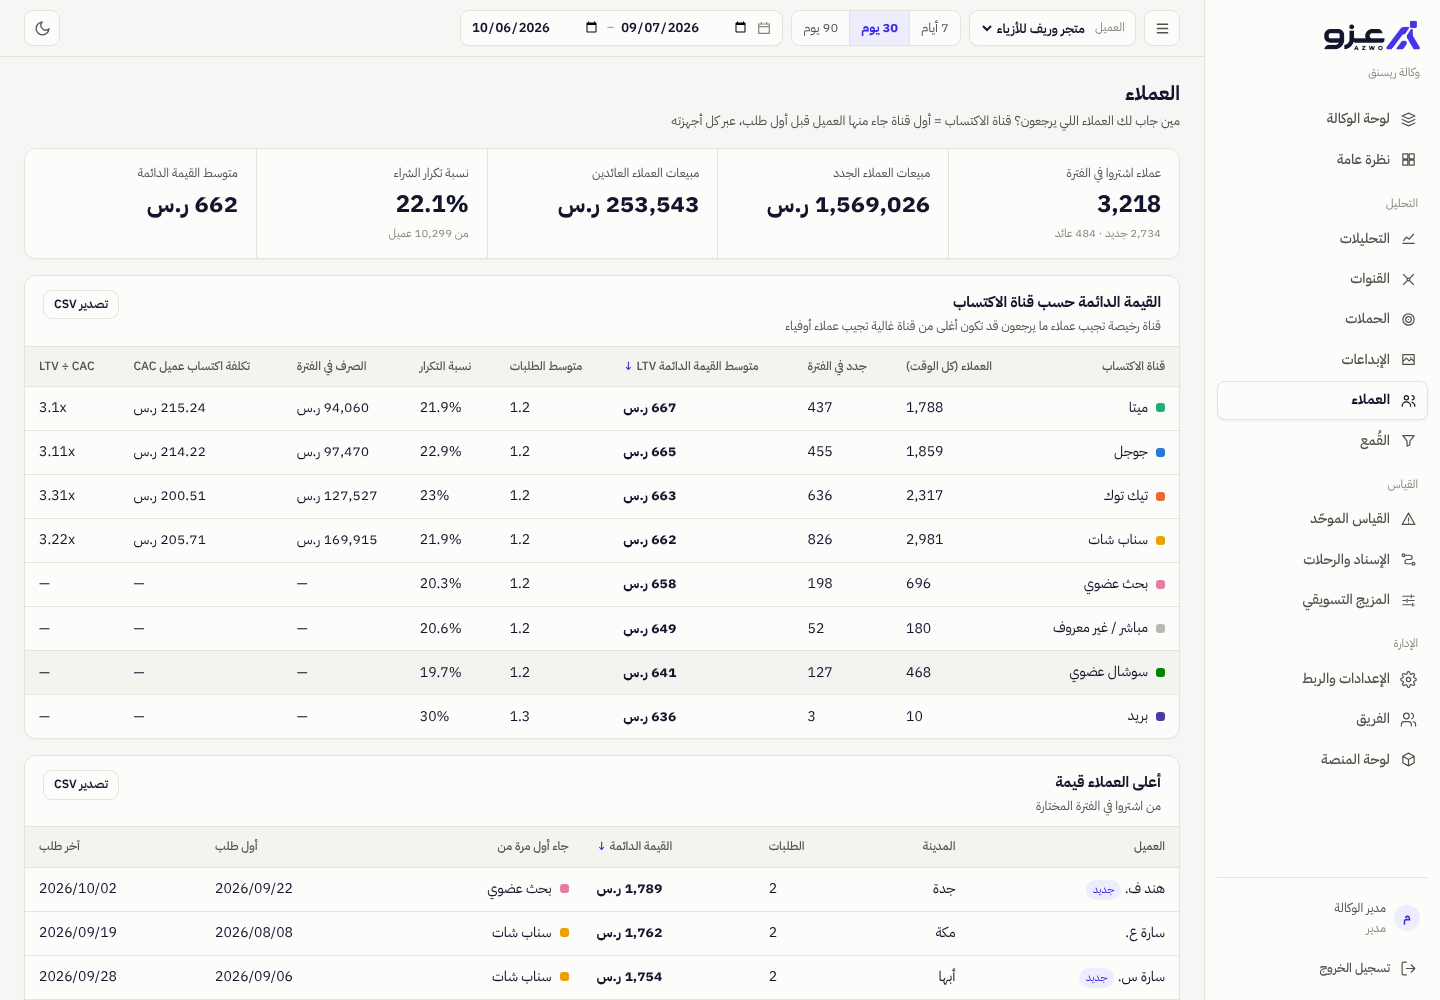
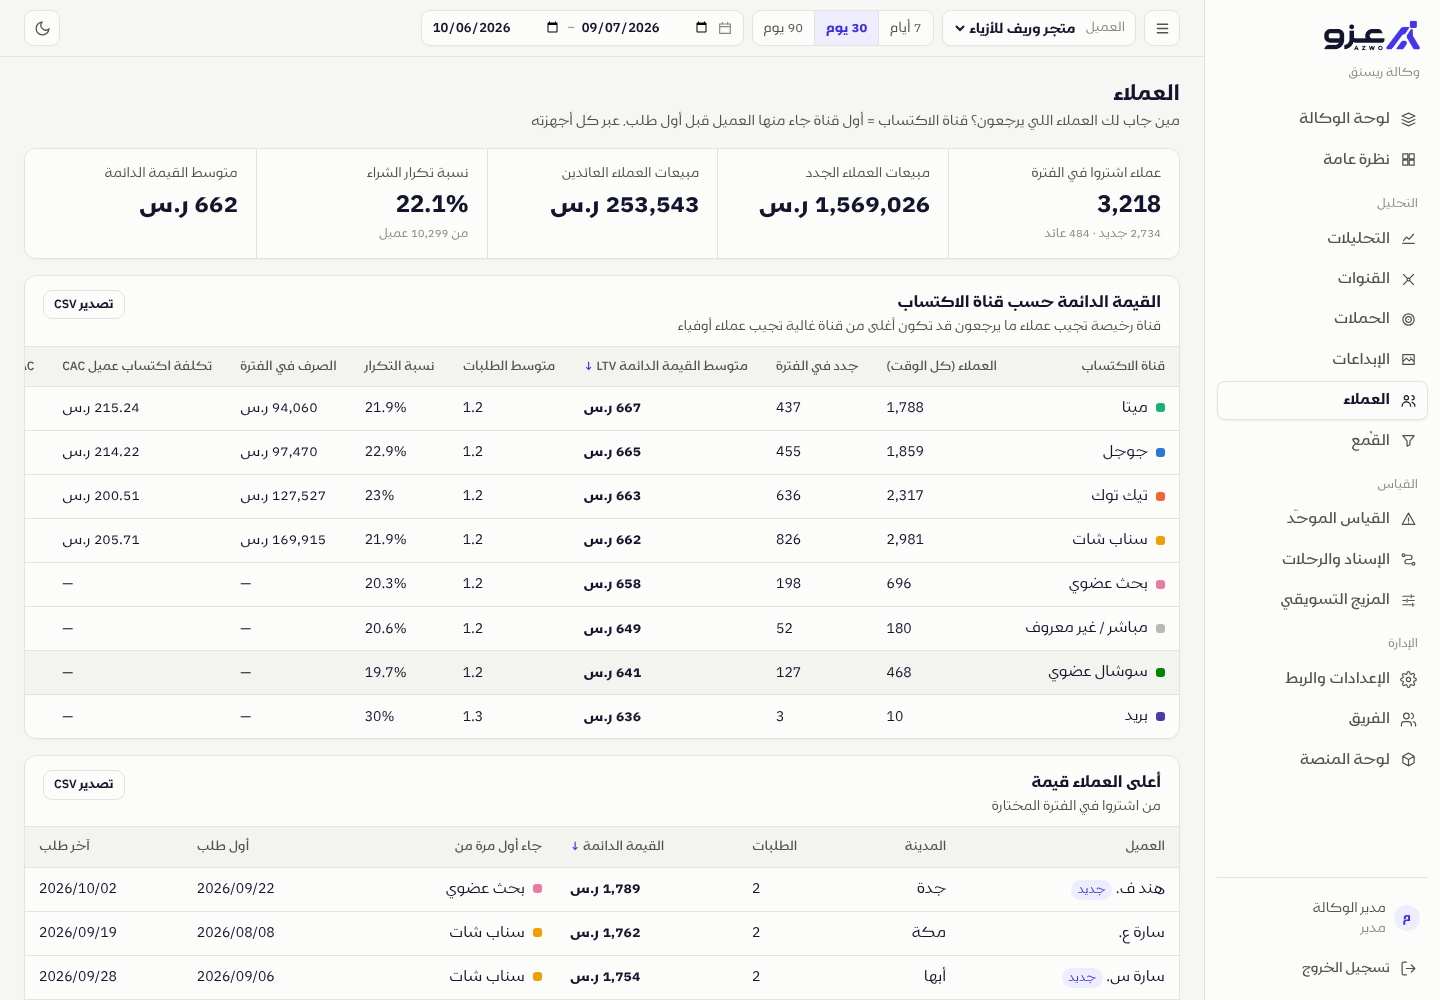
Use the Gamila Arabic brand font
Self-hosted WOFF2 (300/400/500/700) limited to the Arabic unicode range, so
Latin words and digits keep the fallback font and table numbers stay aligned.
CSP allows same-origin fonts; screenshots refreshed.

Claude-Session: https://claude.ai/code/session_01CRQ2PyNX2SDaLzzWgzttx9

diff --git a/public/css/landing.css b/public/css/landing.css
@@ -1,3 +1,39 @@
+@font-face {
+  font-family: "Gamila Arabic";
+  src: url("/fonts/gamila-300.woff2") format("woff2");
+  font-weight: 300;
+  font-style: normal;
+  font-display: swap;
+  /* Arabic letters only: Latin words and digits fall back to the next font, so numbers stay aligned. */
+  unicode-range: U+0600-06FF, U+0750-077F, U+08A0-08FF, U+FB50-FDFF, U+FE70-FEFF, U+200C-200F;
+}
+@font-face {
+  font-family: "Gamila Arabic";
+  src: url("/fonts/gamila-400.woff2") format("woff2");
+  font-weight: 400;
+  font-style: normal;
+  font-display: swap;
+  /* Arabic letters only: Latin words and digits fall back to the next font, so numbers stay aligned. */
+  unicode-range: U+0600-06FF, U+0750-077F, U+08A0-08FF, U+FB50-FDFF, U+FE70-FEFF, U+200C-200F;
+}
+@font-face {
+  font-family: "Gamila Arabic";
+  src: url("/fonts/gamila-500.woff2") format("woff2");
+  font-weight: 500;
+  font-style: normal;
+  font-display: swap;
+  /* Arabic letters only: Latin words and digits fall back to the next font, so numbers stay aligned. */
+  unicode-range: U+0600-06FF, U+0750-077F, U+08A0-08FF, U+FB50-FDFF, U+FE70-FEFF, U+200C-200F;
+}
+@font-face {
+  font-family: "Gamila Arabic";
+  src: url("/fonts/gamila-700.woff2") format("woff2");
+  font-weight: 700;
+  font-style: normal;
+  font-display: swap;
+  /* Arabic letters only: Latin words and digits fall back to the next font, so numbers stay aligned. */
+  unicode-range: U+0600-06FF, U+0750-077F, U+08A0-08FF, U+FB50-FDFF, U+FE70-FEFF, U+200C-200F;
+}
 :root {
   --bg: #fbfbfa; --surface: #ffffff; --alt: #f3f3f0; --border: #e4e3dd; --text: #12152b; --text-2: #52514e; --muted: #898781;
   --accent: #4335ec; --accent-ink: #3a2ce0; --accent-soft: #eeedfd; --claim: #eb6834;
@@ -7,7 +43,7 @@
 }
 * { box-sizing: border-box; }
 html { scroll-behavior: smooth; }
-body { margin: 0; background: var(--bg); color: var(--text); font: 16px/1.7 "IBM Plex Sans Arabic", system-ui, -apple-system, "Segoe UI", Tahoma, sans-serif; }
+body { margin: 0; background: var(--bg); color: var(--text); font: 16px/1.7 "Gamila Arabic", "IBM Plex Sans Arabic", system-ui, -apple-system, "Segoe UI", Tahoma, sans-serif; }
 a { color: inherit; text-decoration: none; }
 .wrap { max-width: 1120px; margin: 0 auto; padding: 0 20px; }
 .narrow { max-width: 760px; }

diff --git a/public/css/app.css b/public/css/app.css
@@ -1,3 +1,39 @@
+@font-face {
+  font-family: "Gamila Arabic";
+  src: url("/fonts/gamila-300.woff2") format("woff2");
+  font-weight: 300;
+  font-style: normal;
+  font-display: swap;
+  /* Arabic letters only: Latin words and digits fall back to the next font, so numbers stay aligned. */
+  unicode-range: U+0600-06FF, U+0750-077F, U+08A0-08FF, U+FB50-FDFF, U+FE70-FEFF, U+200C-200F;
+}
+@font-face {
+  font-family: "Gamila Arabic";
+  src: url("/fonts/gamila-400.woff2") format("woff2");
+  font-weight: 400;
+  font-style: normal;
+  font-display: swap;
+  /* Arabic letters only: Latin words and digits fall back to the next font, so numbers stay aligned. */
+  unicode-range: U+0600-06FF, U+0750-077F, U+08A0-08FF, U+FB50-FDFF, U+FE70-FEFF, U+200C-200F;
+}
+@font-face {
+  font-family: "Gamila Arabic";
+  src: url("/fonts/gamila-500.woff2") format("woff2");
+  font-weight: 500;
+  font-style: normal;
+  font-display: swap;
+  /* Arabic letters only: Latin words and digits fall back to the next font, so numbers stay aligned. */
+  unicode-range: U+0600-06FF, U+0750-077F, U+08A0-08FF, U+FB50-FDFF, U+FE70-FEFF, U+200C-200F;
+}
+@font-face {
+  font-family: "Gamila Arabic";
+  src: url("/fonts/gamila-700.woff2") format("woff2");
+  font-weight: 700;
+  font-style: normal;
+  font-display: swap;
+  /* Arabic letters only: Latin words and digits fall back to the next font, so numbers stay aligned. */
+  unicode-range: U+0600-06FF, U+0750-077F, U+08A0-08FF, U+FB50-FDFF, U+FE70-FEFF, U+200C-200F;
+}
 :root {
   color-scheme: light;
   --page: #f6f6f4;
@@ -52,7 +88,7 @@
 html, body { margin: 0; }
 body {
   background: var(--page); color: var(--text);
-  font: 14px/1.6 "IBM Plex Sans Arabic", system-ui, -apple-system, "Segoe UI", Tahoma, sans-serif;
+  font: 14px/1.6 "Gamila Arabic", "IBM Plex Sans Arabic", system-ui, -apple-system, "Segoe UI", Tahoma, sans-serif;
 }
 button, input, select, textarea { font: inherit; color: inherit; }
 a { color: var(--accent-ink); }

diff --git a/src/server.js b/src/server.js
@@ -34,12 +34,12 @@ import { TRACKER_SOURCE } from './tracker.js';
 const PUBLIC_DIR = fileURLToPath(new URL('../public/', import.meta.url));
 const MIME = {
   '.html': 'text/html; charset=utf-8', '.js': 'text/javascript; charset=utf-8', '.css': 'text/css; charset=utf-8',
-  '.svg': 'image/svg+xml', '.png': 'image/png', '.ico': 'image/x-icon', '.txt': 'text/plain; charset=utf-8', '.xml': 'application/xml',
+  '.svg': 'image/svg+xml', '.png': 'image/png', '.ico': 'image/x-icon', '.woff2': 'font/woff2', '.txt': 'text/plain; charset=utf-8', '.xml': 'application/xml',
 };
 const PAGES = { '/': 'landing.html', '/app': 'index.html', '/terms': 'terms.html', '/privacy': 'privacy.html' };
 const CORS = { 'Access-Control-Allow-Origin': '*', 'Access-Control-Allow-Methods': 'POST, OPTIONS', 'Access-Control-Allow-Headers': 'Content-Type' };
 const SECURITY_HEADERS = {
-  'Content-Security-Policy': "default-src 'self'; script-src 'self'; style-src 'self' https://fonts.googleapis.com; font-src https://fonts.gstatic.com; img-src 'self' data:; connect-src 'self'; frame-ancestors 'none'; base-uri 'self'; form-action 'self'",
+  'Content-Security-Policy': "default-src 'self'; script-src 'self'; style-src 'self' https://fonts.googleapis.com; font-src 'self' https://fonts.gstatic.com; img-src 'self' data:; connect-src 'self'; frame-ancestors 'none'; base-uri 'self'; form-action 'self'",
   'X-Frame-Options': 'DENY',
   'Referrer-Policy': 'strict-origin-when-cross-origin',
   'Permissions-Policy': 'camera=(), microphone=(), geolocation=()',

diff --git a/src/email.js b/src/email.js
@@ -5,7 +5,7 @@ import { config } from './config.js';
 const esc = (s) => String(s).replace(/[&<>"']/g, (c) => ({ '&': '&amp;', '<': '&lt;', '>': '&gt;', '"': '&quot;', "'": '&#39;' }[c]));
 
 export function layout(title, bodyHtml, cta) {
-  return `<!doctype html><html lang="ar" dir="rtl"><body style="margin:0;background:#f6f6f4;font-family:Tahoma,Arial,sans-serif;color:#12152b">
+  return `<!doctype html><html lang="ar" dir="rtl"><body style="margin:0;background:#f6f6f4;font-family:'Gamila Arabic',Tahoma,Arial,sans-serif;color:#12152b">
 <div style="max-width:520px;margin:0 auto;padding:32px 16px">
   <div style="margin-bottom:16px">${config.publicUrl
     ? `<img src="${esc(config.publicUrl)}/img/logo.png" alt="${esc(config.appName)}" height="40" style="height:40px;width:auto">`

diff --git a/public/landing.html b/public/landing.html
@@ -12,6 +12,7 @@
   <link rel="icon" type="image/png" href="/img/favicon.png">
   <link rel="apple-touch-icon" href="/img/apple-touch-icon.png">
   <meta name="theme-color" content="#4335ec">
+  <link rel="preload" href="/fonts/gamila-400.woff2" as="font" type="font/woff2" crossorigin>
   <link rel="preconnect" href="https://fonts.googleapis.com">
   <link href="https://fonts.googleapis.com/css2?family=IBM+Plex+Sans+Arabic:wght@400;500;600;700&display=swap" rel="stylesheet">
   <link rel="stylesheet" href="/css/landing.css">

diff --git a/public/index.html b/public/index.html
@@ -7,6 +7,7 @@
   <link rel="icon" type="image/png" href="/img/favicon.png">
   <link rel="apple-touch-icon" href="/img/apple-touch-icon.png">
   <meta name="theme-color" content="#4335ec">
+  <link rel="preload" href="/fonts/gamila-400.woff2" as="font" type="font/woff2" crossorigin>
   <link rel="preconnect" href="https://fonts.googleapis.com">
   <link href="https://fonts.googleapis.com/css2?family=IBM+Plex+Sans+Arabic:wght@400;500;600;700&display=swap" rel="stylesheet">
   <link rel="stylesheet" href="/css/app.css">

diff --git a/public/terms.html b/public/terms.html
@@ -7,6 +7,7 @@
   <link rel="apple-touch-icon" href="/img/apple-touch-icon.png">
   <meta name="theme-color" content="#4335ec">
   <title>الشروط والأحكام</title>
+  <link rel="preload" href="/fonts/gamila-400.woff2" as="font" type="font/woff2" crossorigin>
   <link rel="preconnect" href="https://fonts.googleapis.com">
   <link href="https://fonts.googleapis.com/css2?family=IBM+Plex+Sans+Arabic:wght@400;500;600;700&display=swap" rel="stylesheet">
   <link rel="stylesheet" href="/css/landing.css">

diff --git a/public/privacy.html b/public/privacy.html
@@ -7,6 +7,7 @@
   <link rel="apple-touch-icon" href="/img/apple-touch-icon.png">
   <meta name="theme-color" content="#4335ec">
   <title>سياسة الخصوصية</title>
+  <link rel="preload" href="/fonts/gamila-400.woff2" as="font" type="font/woff2" crossorigin>
   <link rel="preconnect" href="https://fonts.googleapis.com">
   <link href="https://fonts.googleapis.com/css2?family=IBM+Plex+Sans+Arabic:wght@400;500;600;700&display=swap" rel="stylesheet">
   <link rel="stylesheet" href="/css/landing.css">
